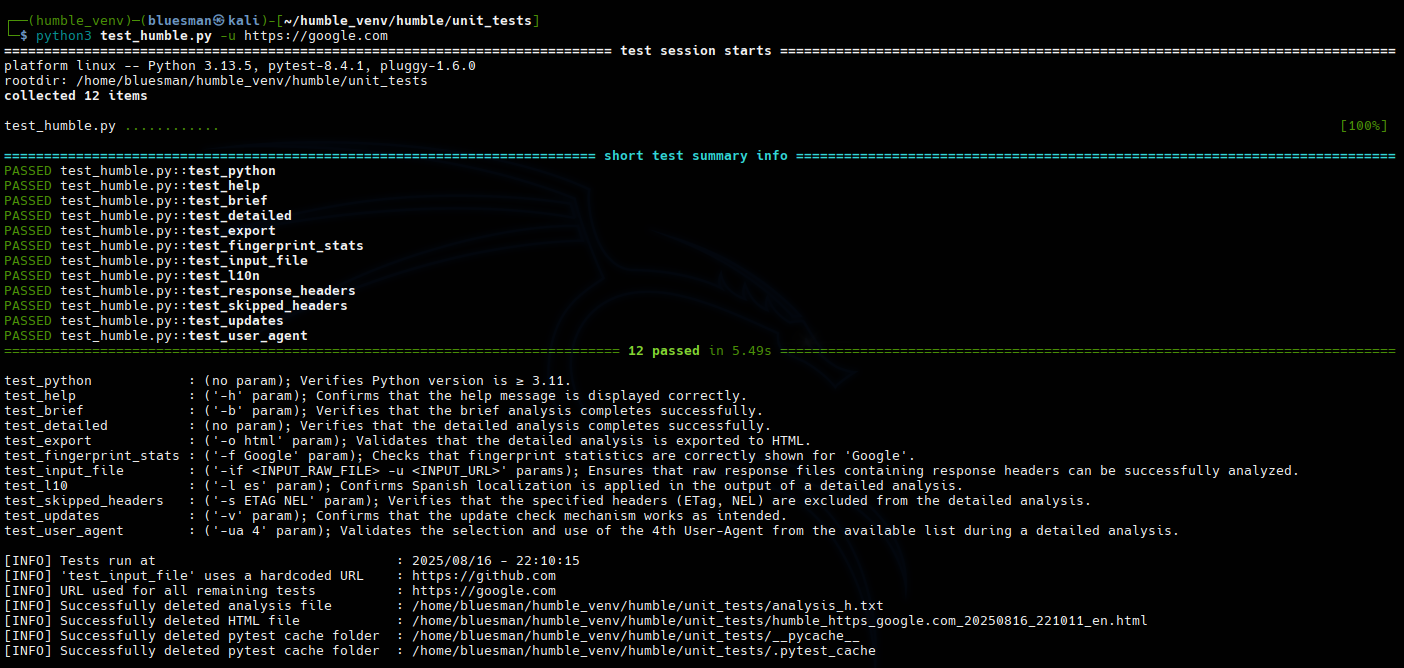
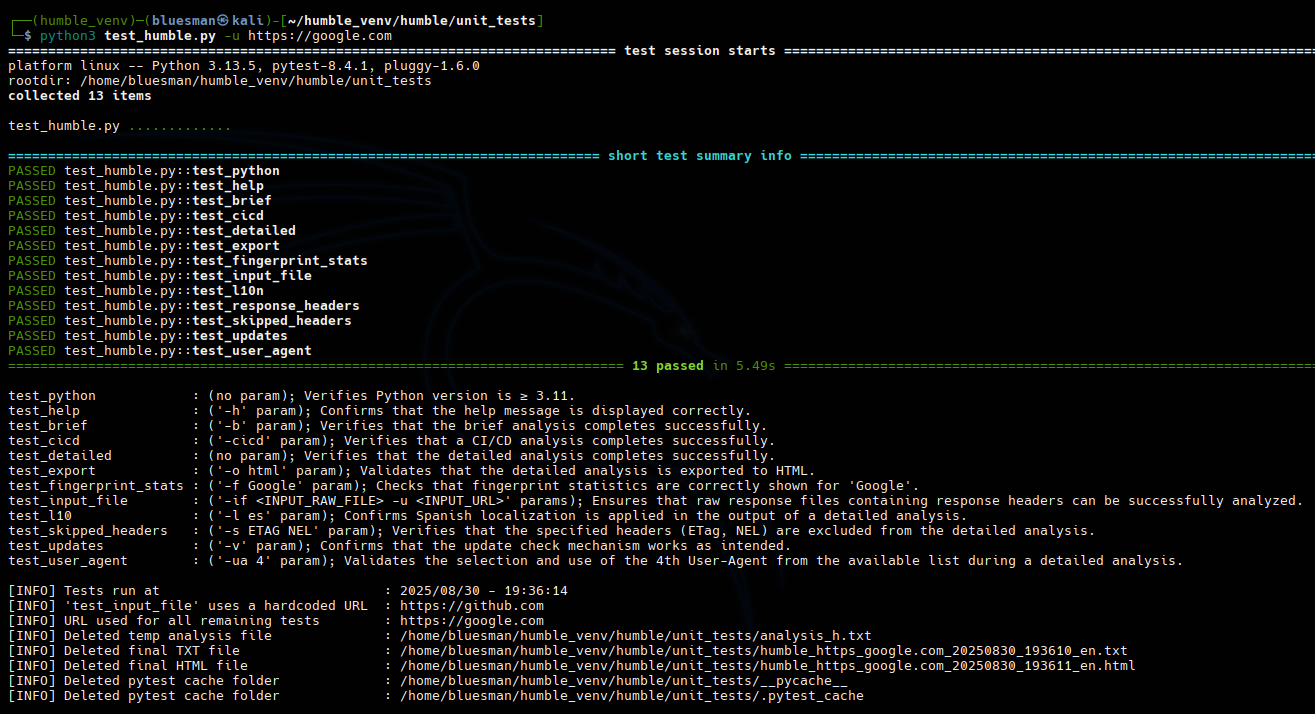
Feature: 1 new unit test
Verifies that a CI/CD analysis completes successfully.

Changed region(s): [[0.0, 0.0, 1.0, 0.988]]

diff --git a/unit_tests/test_humble.py b/unit_tests/test_humble.py
@@ -28,6 +28,7 @@ HUMBLE_MAIN_FILE = path.abspath(path.join(HUMBLE_TESTS_DIR, '..', 'humble.py'))
 TEST_CFGS = {
     'test_help': (['-h'], 'want to contribute?'),
     'test_brief': (['-u', None, '-b'], 'Analysis Grade:'),
+    'test_cicd': (['-u', None, '-cicd'], 'Analysis Grade'),
     'test_detailed': (['-u', None], 'Analysis Grade:'),
     'test_export': (['-u', None, '-o', 'html'], 'HTML saved'),
     'test_fingerprint_stats': (['-f', 'Google'], 'Headers related to'),
@@ -40,7 +41,7 @@ TEST_CFGS = {
     'test_updates': (['-v'], 'Keeping your security tools'),
     'test_user_agent': (['-u', None, '-ua', '4'], 'Selected the User-Agent'),
 }
-TEST_SUMMS = ('[test_python]', '[test_help]', '[test_brief]',
+TEST_SUMMS = ('[test_python]', '[test_help]', '[test_brief]', '[test_cicd]',
               '[test_detailed]', '[test_export]', '[test_fingerprint_stats]',
               '[test_input_file]', '[test_l10]', '[test_skipped_headers]',
               '[test_updates]', '[test_user_agent]')
@@ -121,6 +122,10 @@ def test_brief():
     run_test('brief', *TEST_CFGS['test_brief'])
 
 
+def test_cicd():
+    run_test('cicd', *TEST_CFGS['test_cicd'])
+
+
 def test_detailed():
     run_test('detailed', *TEST_CFGS['test_detailed'])
 
@@ -162,10 +167,26 @@ def delete_humble_analysis(file_path):
     if path.isfile(file_path):
         try:
             remove(file_path)
-            msgs.append(("Successfully deleted analysis file", file_path))
+            msgs.append(("Deleted temp analysis file", file_path))
         except Exception as e:
-            msgs.append(("Failed to delete analysis file",
+            msgs.append(("Failed to delete temp analysis file",
                          f"({type(e).__name__}) {file_path}"))
+    return msgs
+
+
+def delete_txt_file():
+    msgs = []
+    with contextlib.suppress(Exception):
+        file = next(
+            f for f in listdir(HUMBLE_TESTS_DIR) if f.lower().endswith('.txt')
+        )
+        txt_file = path.join(HUMBLE_TESTS_DIR, file)
+        try:
+            remove(txt_file)
+            msgs.append(("Deleted final TXT file", txt_file))
+        except Exception as e:
+            msgs.append(("Failed to delete final TXT file",
+                         f"({type(e).__name__}) {txt_file}"))
     return msgs
 
 
@@ -178,9 +199,9 @@ def delete_html_file():
         html_file = path.join(HUMBLE_TESTS_DIR, file)
         try:
             remove(html_file)
-            msgs.append(("Successfully deleted HTML file", html_file))
+            msgs.append(("Deleted final HTML file", html_file))
         except Exception as e:
-            msgs.append(("Failed to delete HTML file",
+            msgs.append(("Failed to delete final HTML file",
                          f"({type(e).__name__}) {html_file}"))
     return msgs
 
@@ -190,7 +211,7 @@ def delete_pytest_caches(dir_path):
     if path.isdir(dir_path):
         try:
             shutil.rmtree(dir_path)
-            msgs.append(("Successfully deleted pytest cache folder", dir_path))
+            msgs.append(("Deleted pytest cache folder", dir_path))
         except Exception as e:
             msgs.append(("Failed to delete pytest cache folder",
                          f"({type(e).__name__}) {dir_path}"))
@@ -205,6 +226,7 @@ def delete_temps():
         ("URL used for all remaining tests", url_test)
     ]
     info_msgs.extend(delete_humble_analysis(HUMBLE_TEMP_FILE))
+    info_msgs.extend(delete_txt_file())
     info_msgs.extend(delete_html_file())
     for cache_dir in PYTEST_CACHE_DIRS:
         info_msgs.extend(delete_pytest_caches(cache_dir))

diff --git a/README.md b/README.md
@@ -74,7 +74,7 @@
 :heavy_check_mark: Can check for outdated SSL/TLS protocols and vulnerabilities: requires the **amazing** <a href="https://testssl.sh/" target="_blank">testssl.sh<a>.<br />
 :heavy_check_mark: Can provide brief and detailed analysis along with HTTP response headers.<br />
 :heavy_check_mark: Can use proxies for the analysis.<br />
-:heavy_check_mark: Can output analysis totals as JSON for CI/CD pipeline integrations.<br />
+:heavy_check_mark: Can output only analysis summary, totals and grade as JSON for CI/CD pipeline integration.<br />
 :heavy_check_mark: Shows browser support for enabled HTTP security headers, with data from <a href="https://caniuse.com/" target="_blank">Can I use<a>.<br />
 :heavy_check_mark: Highlights <a href="https://developer.mozilla.org/en-US/docs/MDN/Writing_guidelines/Experimental_deprecated_obsolete" target="_blank">experimental<a> headers in each analysis.<br />
 :heavy_check_mark: Provides hundreds of relevant links to security resources, standards and technical blogs based on each analysis.<br />
